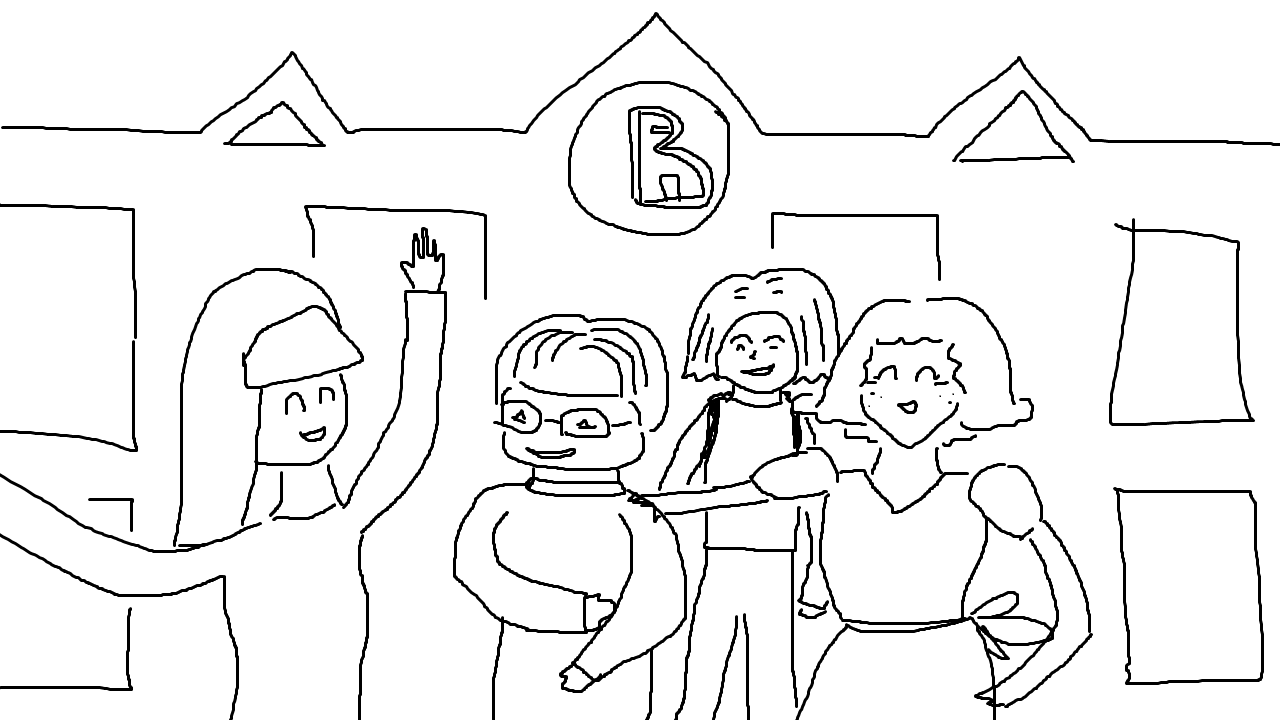
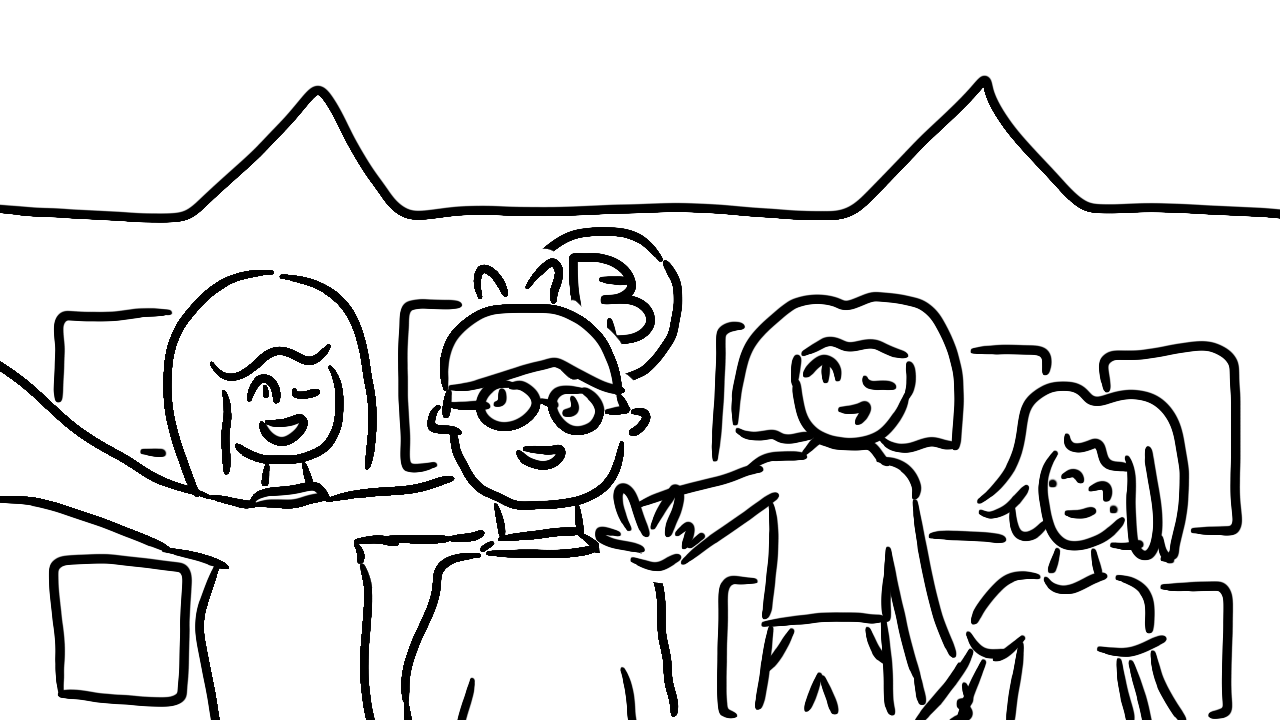
Quick commit with everything needed

diff --git a/src/playstates/mazestate.py b/src/playstates/mazestate.py
@@ -87,7 +87,7 @@ class MazeState(BaseState):
         # Темнота и её параметры
         self.darkness_enabled = True  # Если темнота будет мешать тестированию других вещей, ее можно убрать
         self.darkness_alpha = 255
-        self.light_radius = 300
+        self.light_radius = 250
         self.darkness_surface = pygame.Surface(
             (SCREEN_WIDTH, SCREEN_HEIGHT), pygame.SRCALPHA
         )
